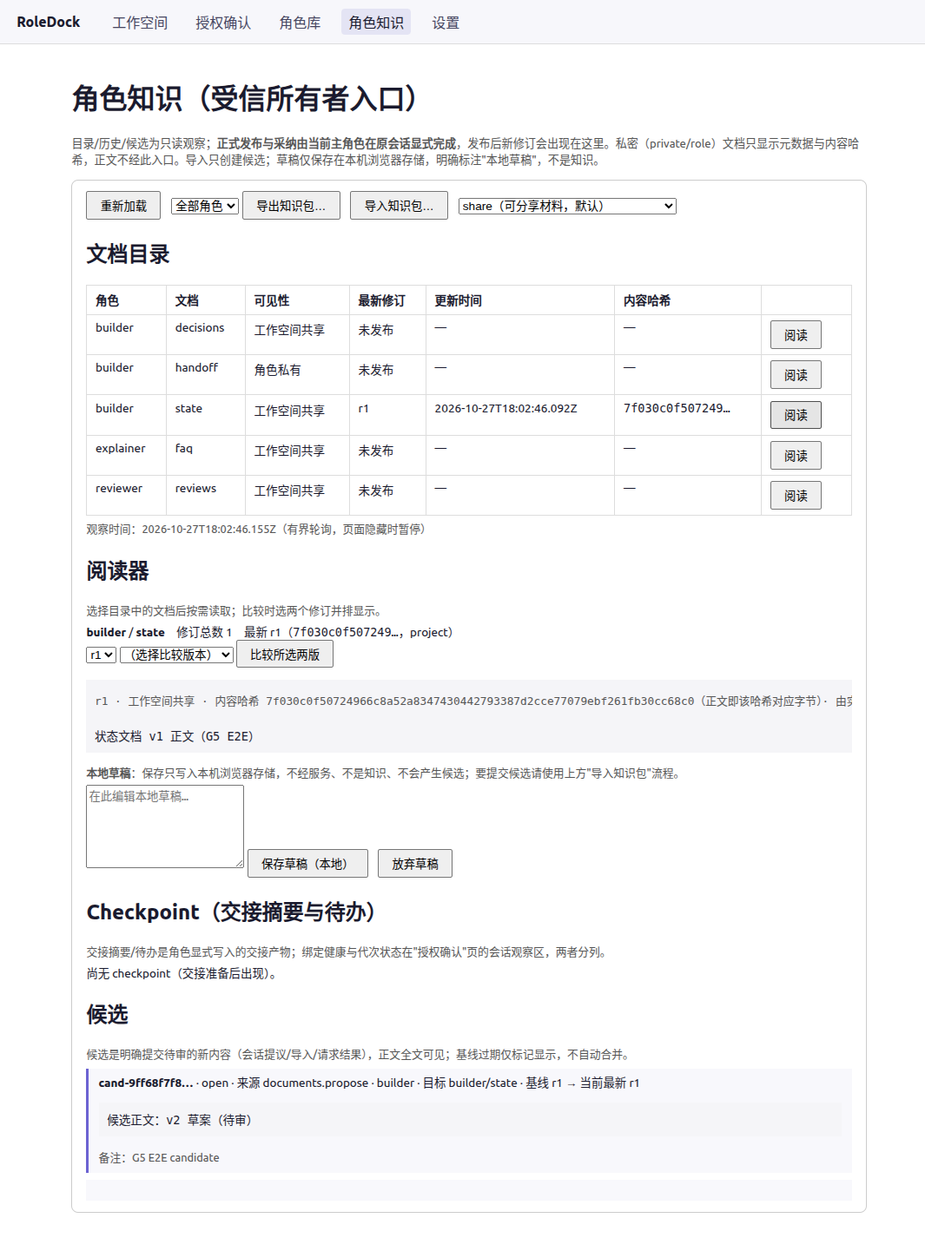
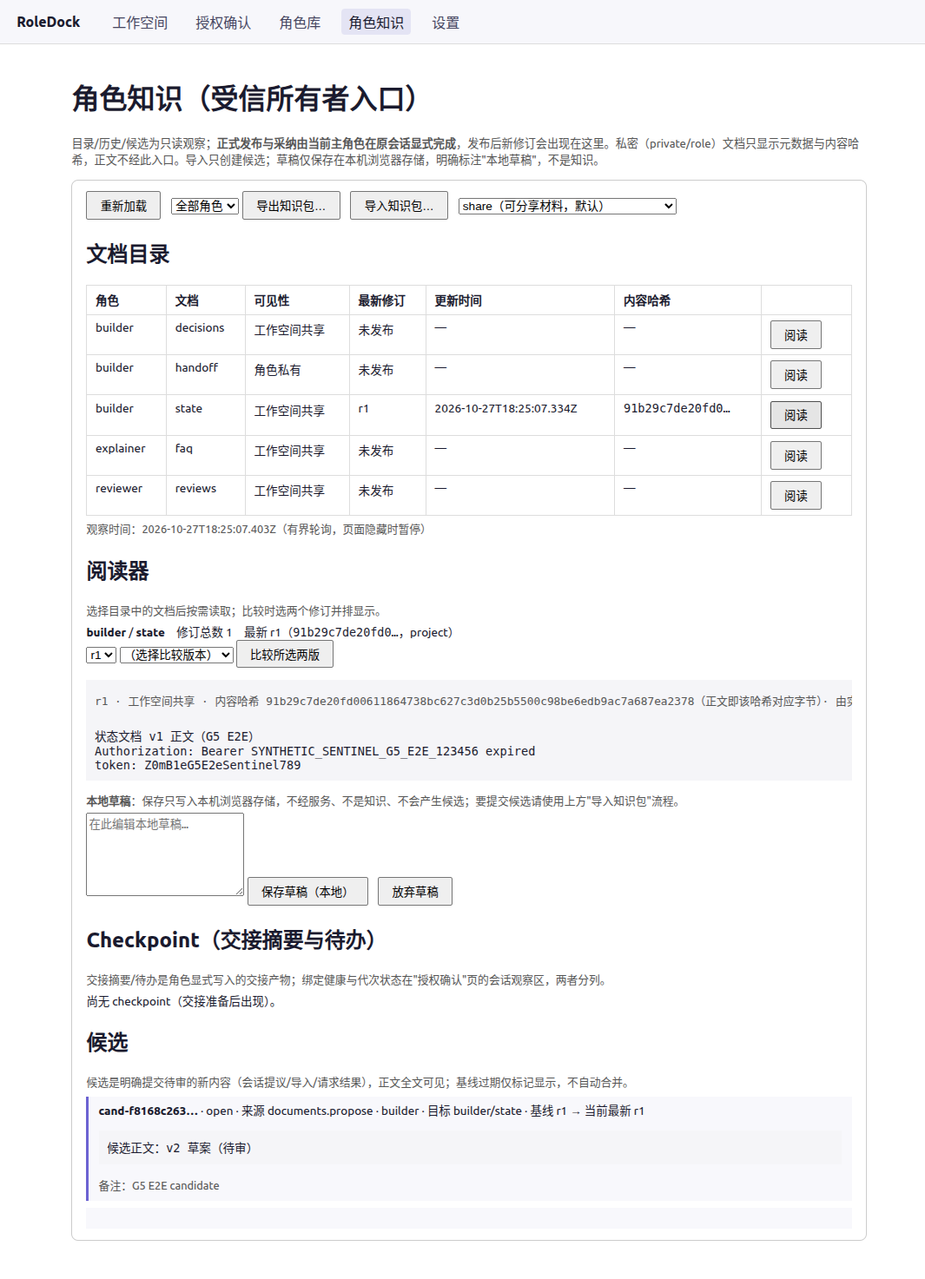
fix(p6-desktop): R1 — hash-paired bodies pass the IPC redact byte-faithful in both bridges; G5 review/rework docs and contract v8 note

diff --git a/packages/desktop/test/e2e-shell/g5.e2e.spec.ts b/packages/desktop/test/e2e-shell/g5.e2e.spec.ts
@@ -1,5 +1,6 @@
 import { expect, test, _electron } from "@playwright/test";
 import type { ElectronApplication, Page } from "@playwright/test";
+import { createHash } from "node:crypto";
 import { existsSync, mkdtempSync, rmSync } from "node:fs";
 import { join, resolve } from "node:path";
 import { tmpdir } from "node:os";
@@ -105,7 +106,10 @@ test.describe("P6-G5 role knowledge page", () => {
         expect(authorizationId).toBeTruthy();
         const anchor = await agent.call("sessions.anchor", { authorization_id: authorizationId, idempotency_key: "g5-shell-e2e" });
         expect(anchor.payload?.binding).toMatchObject({ state: "active", generation: 1 });
-        const published = await agent.call("documents.publish", { document_key: "state", body: "状态文档 v1 正文（G5 E2E）", expected_revision: 0, expected_generation: 1 });
+        // R1 regression: the body carries labeled-secret shapes; it must reach
+        // the renderer byte-faithful (sha256(body) === content_hash) through
+        // the shell IPC redact layer.
+        const published = await agent.call("documents.publish", { document_key: "state", body: "状态文档 v1 正文（G5 E2E）\nAuthorization: Bearer SYNTHETIC_SENTINEL_G5_E2E_123456 expired\ntoken: Z0mB1eG5E2eSentinel789", expected_revision: 0, expected_generation: 1 });
         expect(published.isError).toBe(false);
         expect(published.payload?.revision).toBe(1);
         const proposed = await agent.call("documents.propose", { target_role_id: "builder", document_key: "state", body: "候选正文：v2 草案（待审）", note: "G5 E2E candidate" });
@@ -126,6 +130,11 @@ test.describe("P6-G5 role knowledge page", () => {
       await stateRow.locator("button[data-open]").click();
       await expect(win.locator("#body")).toContainText("状态文档 v1 正文（G5 E2E）", { timeout: 15000 });
       await expect(win.locator("#body")).toContainText("内容哈希");
+      // R1: the IPC reply's body is byte-faithful — its sha256 equals content_hash.
+      const read = await callIpc<{ body: string | null; content_hash: string; body_included: boolean }>(win, "knowledge", "readDocument", { role_id: "builder", document_key: "state" });
+      expect(read.body_included).toBe(true);
+      expect(read.body).toContain("Bearer SYNTHETIC_SENTINEL_G5_E2E_123456 expired");
+      expect(createHash("sha256").update(read.body ?? "").digest("hex")).toBe(read.content_hash);
 
       // 4. Candidates: full proposed body visible; baseline not conflicted yet.
       const candidateBlock = win.locator("#candidates .chain", { hasText: "候选正文：v2 草案（待审）" });

diff --git a/packages/desktop/src/shell/shared/redact.ts b/packages/desktop/src/shell/shared/redact.ts
@@ -16,6 +16,18 @@
 
 const SECRET_FIELD = /(^|_)(token|secret|password|bearer|api[_-]?key|private[_-]?key|access[_-]?key)(s)?$/i;
 const FREE_TEXT_FIELD = /(^|_)(message|body|detail|error|note|reason|description|summary|output|text|log)(s)?$/i;
+/**
+ * Hash-paired payload bytes (G5 owner knowledge DTOs): a "body" string is
+ * content-addressed — paired with content_hash / proposed_body_hash / the
+ * handoff summary hash — so it must arrive VERBATIM. Scrubbing it would
+ * silently rewrite the bytes and break the hash correspondence, violating
+ * desktop-gui-contract §3.1 layer 4 (scrubbed display text must never be
+ * presented as the bytes a content_hash was computed over). Free-text
+ * DISPLAY fields that need scrubbing use other names (message/detail/note/
+ * reason/question/…). R1 (P6-G5 review): keeping this bypass identical in
+ * the probe bridge (G0-R01 parity).
+ */
+const BYTE_FAITHFUL_FIELD = new Set(["body"]);
 const BEARER_SCHEME = /(bearer\s+)([A-Za-z0-9._~+/=-]{12,})/gi;
 const KEY_VALUE_SECRET = /((?:authorization|token|api[_-]?key|secret|password)\s*[:=]\s*)([A-Za-z0-9._~+/=-]{12,})/gi;
 const MASK = "[masked]";
@@ -34,7 +46,7 @@ export function redact<T>(value: T, options: { freeText?: boolean } = {}): T {
     const out: Record<string, unknown> = {};
     for (const [key, item] of Object.entries(value as Record<string, unknown>)) {
       if (SECRET_FIELD.test(key)) continue;
-      out[key] = typeof item === "string" && FREE_TEXT_FIELD.test(key) ? scrubDisplayText(item) : redact(item);
+      out[key] = typeof item === "string" && !BYTE_FAITHFUL_FIELD.has(key) && FREE_TEXT_FIELD.test(key) ? scrubDisplayText(item) : redact(item);
     }
     return out as unknown as T;
   }

diff --git a/packages/desktop/src/probe/shared/bridge.ts b/packages/desktop/src/probe/shared/bridge.ts
@@ -21,7 +21,14 @@
  *    `key: value`) are masked. UNLABELED blobs are not masked and must not
  *    exist as structured DTO fields (layer 1's job); scrubbed text must
  *    never be presented as the bytes a content_hash was computed over.
+ * 4. Byte-faithful exception (R1, P6-G5 review; identical in the shell
+ *    redact): a "body" string is hash-paired payload bytes (content_hash /
+ *    proposed_body_hash / handoff summary hash), so it passes through
+ *    VERBATIM — scrubbing it would break the hash correspondence (§3.1
+ *    layer 4). Free-text display fields use other names.
  */
+
+const BYTE_FAITHFUL_FIELD = new Set(["body"]);
 
 export const PROBE_CHANNEL_PREFIX = "roledock:probe:";
 
@@ -73,7 +80,7 @@ export function redact<T>(value: T, options: { freeText?: boolean } = {}): T {
     const out: Record<string, unknown> = {};
     for (const [key, item] of Object.entries(value as Record<string, unknown>)) {
       if (SECRET_FIELD.test(key)) continue;
-      out[key] = typeof item === "string" && FREE_TEXT_FIELD.test(key) ? scrubDisplayText(item) : redact(item);
+      out[key] = typeof item === "string" && !BYTE_FAITHFUL_FIELD.has(key) && FREE_TEXT_FIELD.test(key) ? scrubDisplayText(item) : redact(item);
     }
     return out as unknown as T;
   }

diff --git a/packages/desktop/test/shell-contract.test.ts b/packages/desktop/test/shell-contract.test.ts
@@ -78,6 +78,19 @@ describe("shell redaction (identical layered rules to the probe)", () => {
     expect(JSON.stringify(dto)).not.toContain("[masked]");
   });
 
+  it("R1 (P6-G5 review): hash-paired bodies pass through byte-faithful even with labeled-secret shapes", () => {
+    const body = `状态 v2\nAuthorization: Bearer SYNTHETIC_SENTINEL_NOT_A_CREDENTIAL expired\ntoken: Z0mB1eR1B0dySentinel123\n普通散文保持不变`;
+    const dto = redact({
+      body,
+      content_hash: SHA256,
+      message: "Authorization: Bearer SYNTHETIC_SENTINEL_NOT_A_CREDENTIAL rejected",
+    });
+    // The body is content-addressed bytes: verbatim, hash still corresponds.
+    expect((dto as { body: string }).body).toBe(body);
+    // Free-text DISPLAY fields keep their layer-3 scrubbing.
+    expect((dto as { message: string }).message).toBe("Authorization: Bearer [masked] rejected");
+  });
+
   it("masks labeled secrets in free-text fields only; unlabeled blobs are untouched", () => {
     const masked = redact({
       message: "Authorization: Bearer SYNTHETIC_SENTINEL_NOT_A_CREDENTIAL rejected",

diff --git a/packages/desktop/test/probe-contract.test.ts b/packages/desktop/test/probe-contract.test.ts
@@ -67,6 +67,13 @@ describe("R01 redaction: secret fields vs public business identifiers", () => {
     expect((masked as { detail: string }).detail).toBe("handoff note: bearer [masked] expired");
   });
 
+  it("R1 (P6-G5 review): hash-paired bodies are byte-faithful in BOTH bridges (G0-R01 parity)", () => {
+    const body = "状态 v2\nAuthorization: Bearer SYNTHETIC_SENTINEL_NOT_A_CREDENTIAL expired\ntoken: Z0mB1eR1B0dySentinel123";
+    const masked = redact({ body, content_hash: SHA256 });
+    expect((masked as { body: string }).body).toBe(body);
+    expect(JSON.stringify(masked)).not.toContain("[masked]");
+  });
+
   it("documented boundary: unlabeled blobs and bare hashes in free text are NOT masked", () => {
     // Contract §3.1 layer 3 (v3): scrubbing covers LABELED secret patterns
     // only. Unlabeled values are the DTO projection layer's responsibility —

diff --git a/docs/phase-reports/P6-G5-review.md b/docs/phase-reports/P6-G5-review.md
@@ -1,0 +1,96 @@
+# P6-G5 独立验收报告：知识、历史、候选与迁移
+
+日期：2026-10-28。结论：**REWORK**（一项返工项 R1，见 §5；其余验收条件全部满足。R1 修复后按 §5.7 复验，不必重验本报告已 PASS 的全部范围）。
+
+依据：AGENTS.md（硬性约束）、prompts/REVIEW.md、prompts/COMMON.md、prompts/06G5-knowledge.md、[P6-G5-development.md](P6-G5-development.md)（开发声明仅作线索，不作结论）、[P6-G5-plan.md](P6-G5-plan.md)（范围裁定留档）、[desktop-gui-contract.md v8 §2.2/§2.3/§3/§4/§5](../spec/desktop-gui-contract.md)、[DESKTOP_GUI_PLAN.md §13](../DESKTOP_GUI_PLAN.md)、前序 [P6-G4-review.md](P6-G4-review.md)（§6.4 "材料待采"跟进义务）。本轮止于验收：未修改产品实现、契约或开发报告，未做任何 commit/合并/发布。
+
+## 1. 验收基线
+
+- HEAD：`5878c38a2273e8c1f831d574b6e964e05718b711`（main；G5 三个 feat 提交 + 契约 v8/开发报告/证据 + 一条 pipeline 日志）。
+- 工作区：验收开始与结束时**均干净**（`git status --porcelain` 零行）；本轮全部测试运行未翻动 `evidence/2026-10-27-p6-g3/real-session/user-data` 下的 Chromium 缓存，无需还原。
+- 运行时：Node v22.23.2（`.nvmrc`，engine-strict）。
+- 本阶段 diff（`d38b42d..HEAD`）：28 个文件、+1908 行，与开发报告 §2 声明的源码范围一致；`knowledge/transfer.ts`（导出/导入核心）为 P2/P5 既有实现，本阶段未改（git log 证实），G5 只是接线。
+
+## 2. 独立运行的验证命令与退出码
+
+| 命令 | 独立结果 | 退出码 |
+| --- | --- | --- |
+| `nvm use` + `node --version` | v22.23.2 | 0 |
+| `npm run check`（typecheck 全量 + build + vitest 全套） | **543/543 PASS（57 文件，266s）**，含 no-business-roles 72 项、G5 core 6 项、G5 service 2 项、shell-contract G5 词汇表 | **0** |
+| `npx playwright test --config packages/desktop/playwright.shell.config.ts`（仓库根） | **14/14 PASS（57.0s）**：G1×6 + G2×5 + G3×1 + G4×1 + **G5×1 全链**，无跳过 | **0** |
+| 验收方独立探测脚本 `/tmp/g5-review/independent-check.mjs`（reviewer 临时材料，直接驱动 dist 的 WorkspaceAdmin/transfer，**33 项断言**） | 33/33 PASS | 0 |
+| 验收方 redact 探针 `/tmp/g5-review/redact-probe.mjs`（shell 构建产物 `redact()` 实测） | 实证 R1（§5） | 0 |
+| `git status`（验收结束） | 干净 | 0 |
+
+抽查证据目录 `docs/phase-reports/evidence/2026-10-28-p6-g5/automated/`：`gui-01-knowledge-page.png`（知识页全貌：目录含未发布声明文档、阅读器正文+哈希标注、本地草稿区、checkpoint 区、候选全文与来源/基线标注——与代码渲染路径逐项相符）、`shell-e2e-g5.log`（14/14 采集运行）。开发报告 §4 的失败/返工记录（core 测试 manifest 字段名、service 隔离断言语义、E2E 钩子、typecheck 修正）如实披露，未发现隐瞒。
+
+## 3. 逐条验收条件核对（06G5 工作项 → 实际代码/行为/测试）
+
+| 提示词工作项 | 核对结果 | 关键位置/证据 |
+| --- | --- | --- |
+| 1. 按已定可见性提供 owner 文档/修订/候选读模型；正文经服务按需读取，渲染层不读对象路径或开库 | **PASS**。六个只读投影（`documents.list`/`documents.read`(owner)/`documents.listRevisions`/`documents.listCandidates`/`checkpoints.list`/`checkpoints.get`）实现于 WorkspaceAdmin，全部纯 SELECT；验收方独立脚本对发布/提议/checkpoint 后的工作空间连续调用 9 次投影，**23 张表 digest 逐字节不变**。渲染层 `grep node:fs|node:path|require(|process.` 零命中；正文只能经 `knowledge:readDocument` 服务调用按需到达 | `packages/core/src/admin.ts:228-434`、`packages/service/src/index.ts:183-218`（六操作传输边界 Schema 校验输出，fail-closed INTERNAL）、`packages/desktop/src/shell/renderer/pages/knowledge.ts`（无 fs/path）、独立探测脚本第 1 组 |
+| 2. 文档目录、历史比较、来源/可见性、checkpoint 摘要/待办、候选基线与冲突、导出/导入原生选择和结果清单 | **PASS**（正文保真受 R1 影响，见 §5）。目录含未发布声明文档（latest_revision=0+包声明可见性）；两修订并排比较+哈希标注；私密修订在下拉中标注"（私密）"；checkpoint 摘要（format+content_hash+待办概览）→详情（交接摘要全文、全部待办、来源、决策引用）；候选显示来源/原始基线→当前最新/冲突标记/正文全文/备注；导出经 main 原生对话框复制到用户所选目录、导入原生对话框选包后显示"已创建 N 个候选"清单。E2E 全链实证（目录 r1→正文→候选→导出落盘 manifest.json→导入建候选） | `knowledge.ts:114-228`、`workspace-controller.ts:242-280`、`g5.e2e.spec.ts:119-154`、截图 gui-01 |
+| 3. 编辑保留本地草稿；owner 候选提议的裁定；导入只创建候选 | **PASS**。草稿仅 `window.localStorage`（键 `roledock-draft:<role>:<doc>`），界面明示"保存只写入本机浏览器存储，不经服务、不是知识、不会产生候选"；`proposals.submit` 未实施裁定**合法**（§6 评估）；导入只建候选（`importKnowledge` 事务内仅 INSERT candidate_updates，`document_revisions` 计数为 0——core 测试+独立脚本+E2E 三重实证）；页面无空功能按钮（词汇表测试锁定 knowledge 命名空间恰为 8 方法，无 submit/publish/adopt：`shell-contract.test.ts:42-49`） | `knowledge.ts:17-29,132`、`transfer.ts:186-末尾`、`g5.e2e.spec.ts:144-154` |
+| 4. 验证撤权、历史不可变、过期基线冲突不丢正文、私密范围、哈希来源和目录边界；不自动合并/不迁移凭据 | **PASS**（哈希来源的 core 层成立、GUI 呈现层被 R1 破坏）。① 历史不可变：修订列表纯元数据（`JSON.stringify(page)` 不含正文串，core 测试），同 revision 不可重写由既有 CAS 承载；② 过期基线：r1 提议→发布 r2→候选 body 原样保留、`baseline_conflicted=true`（**存储 state 仍 open**，独立脚本直读库证实显示层派生）；③ 撤权：owner 读模型不依赖会话授权（读不产生权），会话面经既有 `canRead` 身份可见性门控（`documents/service.ts:79-110`），GUI 知识页无任何写通道可"继续操作"；④ 私密范围：private/role 仅元数据+哈希，正文串不出现在任何响应（core 测试+独立脚本对 read/revisions/list 逐一断言）；⑤ 哈希来源：core 读出即验 `bodyHash(body)===content_hash`，验收方以**篡改内容寻址对象文件**实证 fail-closed（抛 INTERNAL 且消息不含原文）——此项为产品测试未直接覆盖、验收方补测；⑥ 目录边界：role 过滤、未安装角色空目录不抛、未发布 read 报 NOT_FOUND；⑦ 导出 scope=share 仅 project/public 已发布条目（manifest 不含 role 文档与正文、不含 checkpoint），导入侧 private/role 条目按 `visibility_not_shareable` 跳过、篡改包被哈希校验拒绝（不碰 DB）；无凭据/宿主聊天通道 | `admin.ts:301-334,352-377,391-434`、`transfer.ts:54-63,100-115,186+`、独立探测脚本第 2-7 组 |
+
+**退出条件**（06G5）："GUI 可查看/比较/迁移知识，并在外部角色显式发布后显示确切新修订；草稿、候选与发布清楚区分。不做向量检索、富文本协同或静默角色升级"——达成。E2E 步骤 2-3 实证发布链：原会话 Agent `sessions.anchor`（active，generation 1）→ `documents.publish` r1 → GUI 知识页经 2s 有界轮询出现 r1 正文与哈希（`g5.e2e.spec.ts:100-128`）；草稿（本地存储+明示标注）/候选（待审、显示基线）/发布（仅原会话，GUI 仅观察与指引）三者在页面文案、数据来源与词汇表三层分离；未做向量检索/富文本/静默升级。
+
+## 4. 重点独立核查结果（验收方亲测，非仅测试绿）
+
+1. **投影纯只读**：见 §3 工作项 1——23 张表 digest 前后逐字节相同（9 次调用覆盖全部六投影+分页翻页）。
+2. **分页边界真实生效**：`limit` 0/201/-5/1.5/"10"（字符串）全部 `VALIDATION_FAILED`；limit=1 经 cursor 走完整目录与 limit=200 单页集合相等；非法 cursor（非 base64）拒绝。core 与 service 边界双层校验一致。
+3. **§3.2 可见性矩阵**：project/public 才 `body_included:true`；private/role 的正文串不出现在 read/revisions/list 任何响应的序列化输出（含目录的 `body` 字段整体不存在的断言）；**候选正文全文附带且基线正文不搭载**（候选列表仅含 proposed body，无 baseline body 字段）；checkpoint 摘要仅 format+content_hash（列表序列化不含摘要正文）、详情有全文+读出验哈希。
+4. **同名 documents 操作双 dispatch 隔离**：session principal 在 `service/index.ts:99` 直接转 `connection.call`（会话自有 `documents.list/read`，经 MCP binding 可见性），**不进入** owner 分支；owner 六操作走 `#admin` 投影，互不借用身份。service 测试断言：trusted 主体六操作全 `PERMISSION_DENIED`；会话面 owner-only 四视图（listRevisions/listCandidates/checkpoints.*）全拒、会话自有 documents.list/read 保留。
+5. **渲染层边界**：`knowledge:` 是封闭命名空间（8 方法）；export/import 的文件解析在受信 main 进程（原生对话框或文档化测试夹具 env），`knowledge:export` 无通用路径入参（仅 scope/role_id）、`knowledge:import` noPayload；渲染层只拿摘要/`saved_to` 标签与候选清单；8 条 handler 均 assertTrusted+redact+输入校验。E2E 断言渲染层无 `process`/`require`（G1 既有，清单更新后仍通过）。
+6. **导出导入迁移语义**：share 包仅 project/public 已发布 latest（JOIN documents.latest_revision），写包时哈希重算复核；导入先验全部条目哈希（篡改不碰 DB）、private/role 与未安装角色/未声明文档键逐项跳过、目标工作空间 `document_revisions` 计数 0、目录全部 latest_revision=0、候选 source=knowledge.import 且正文全文——"两个工作空间迁移后是候选而非静默发布"实证。
+7. **GUI 发布后新修订自然出现**：E2E 步骤 2-3（锚定→发布→2s 轮询出现 r1），轮询有界（hidden 暂停、hashchange 清理监听）。
+
+## 5. 返工项
+
+### R1（高）：知识正文经 shell IPC `redact()` 被静默改写，破坏"正文即 content_hash 对应字节"的保真声明
+
+- **触发条件**：已发布文档正文（public/project 的 `body`）、候选正文（`body`）、交接摘要正文（`handoff_summary.body`）、待办描述（`todos[].description`）或候选备注（`note`）中含**标注型秘密形态**字符串——如 `Bearer <≥12字符>`、`token: <值>`、`password: <值>`、`api_key: <值>`。此类内容在工作文档（事故记录、密钥轮换记录、配置示例）中并不罕见。
+- **位置**：
+  - `packages/desktop/src/shell/main/ipc.ts:262`——所有 shell handler 回复统一 `redact(...)`；
+  - `packages/desktop/src/shell/shared/redact.ts`——`FREE_TEXT_FIELD` 正则含 `body`，对象分支对具名字符串强制 `scrubDisplayText()`；
+  - `packages/desktop/src/shell/renderer/pages/knowledge.ts:141`（阅读器标注"内容哈希 `<hash>`（正文即该哈希对应字节）"）、`:200`（checkpoint 详情同标注）、`:161`（比较的"正文相同/不同"判定基于 scrub 后文本）。
+- **影响**：违反 desktop-gui-contract §3.1 第 4 层定档（"经脱敏/截断的显示文本**不得**标注为与某 `content_hash` 对应的字节"）与 §2.3 `documents.read`"content_hash（**原始字节**）"、§3.2"全文"语义。service 传输边界的 Schema 校验发生在 service 进程（校验原文、通过），scrub 发生在其后的 desktop IPC 层——**静默失真、无任何告警**：owner 在 GUI 复核哈希将失败且无从知道原因；两版比较可能因正文仅差秘密片段而误报"正文相同"。哈希来源是 06G5 工作项 4 的明确验证项，其 core 层实现正确（§3/§4），但在 GUI 呈现链上被破坏。注：候选 `note`、`todos[].description` 自身无哈希配对，其 scrub 属契约 §3.1 第 3 层"尽力而为"允许范围，**不属缺陷**；`probe` 桥 `PROBE_METHODS` 不含 knowledge 操作，修复面仅 shell 桥。
+- **实证**（验收方 redact 探针，驱动 shell 构建产物 `dist/shell/shared/redact.js`，与 ipc.ts:262 同函数同默认参数）：
+  - 输入正文 `Incident log: the connector emitted \`Bearer sk-live-abcdef1234567890\` at 10:02.` → 输出 `...Bearer [masked]...`（字节改变，与 content_hash 不再对应）；
+  - `handoff_summary.body` "Handoff mentions token: abcdef1234567890ab" → "token: [masked]"；`todos[].description` "rotate the api_key: zzz…" → "[masked]"。
+- **修复要求**：为 knowledge 读响应中**与 content_hash 配对的正文**（`body`、`handoff_summary.body`）提供逐字节保真通道——例如利用 redact 现有 `options.freeText` 机制对相应 handler 关闭自由文本 scrub，或将正文置于非 FREE_TEXT 键名的结构中；修复须保持契约 §3.1 第 1 层投影（DTO 字段白名单）与第 2 层 SECRET_FIELD 名单不变（秘密**字段**仍不得出现），并同步核查 §3.1 第 3 层"两桥一致"注释的适用性；GUI 的"正文即该哈希对应字节"标注在保真通道建立后方可保留。
+- **复验方法**：发布正文含 `Bearer abcdef1234567890` 的 project 文档，经 shell IPC `knowledge:readDocument` 读回，断言 `body` 与 `content_hash` 逐字节对应（`sha256(body)===content_hash`），并补一条同形态的回归测试进 shell 契约测试或 g5 E2E；随后重跑 `npm run check` 与 shell E2E。
+
+## 6. `proposals.submit` 未实施裁定评估（prompt 工作项 3 / 计划 §13）
+
+**裁定合法**，理由链：
+
+1. 06G5 工作项 3 为条件句："**如增加** owner 候选提议，先明确独立来源和审计"——owner 提议非本阶段强制项。
+2. 计划 §13 明文预留本轮不实施的出口："若本轮不实施 owner 候选提交，首版明确显示'本地草稿'，仍可通过现有导入流程提交候选，**不能出现空功能按钮**"——三个条件全部满足：草稿区明示（§3 工作项 3）、提交候选可走既有导入流程（E2E 步骤 6）、无空按钮（词汇表测试 `shell-contract.test.ts:42-49` 锁定 knowledge 命名空间恰为 8 方法且显式断言无 submit/publish/adopt）。
+3. 契约 §2.3 将 `proposals.submit` 标为 G5/G6，v8 注明"本轮未实施……实施前需先明确独立来源与审计"——未占用名字、未伪装。
+4. 计划留档的裁定理由**属实**（验收方独立核实）：`candidate_updates.source` 的 CHECK 约束仅 `'documents.propose','knowledge.import','request.result'` 三来源（`migrations.ts:274`），owner 提案需扩 CHECK（新迁移）+ `proposed_by` 身份语义（现 NOT NULL session/role）+ 独立审计——属架构/权限面变化，按仓库纪律须先补 ADR，不属"只读落点"范畴。
+5. 退出条件不含 owner 提议；硬性约束 4（未实现不伪装）得到遵守。
+
+## 7. G4 遗留"材料待采"承接核对
+
+`evidence/2026-10-27-p6-g4/` 下 **FINDINGS.md 与 gui-03…gui-07 仍未补采**（目录内容与 G4 验收时一致：automated/ 两截图+日志、STEPS.md、两个采集脚本）；本阶段自身真机截图（知识页真机形态）同样待采，开发报告 §6/§8 如实声明"沿用两份 STEPS，待用户配合采集"。按 G4 验收 §6.4 的既定裁定升级为本阶段**观察项 O-A**：自动化证据覆盖同版本代码的相同代码路径，非功能缺口，不构成 REWORK/BLOCKED；**随 G7 产品证据收口（GUI-04…07 矩阵）最迟补齐**，届时若仍缺失应作为 G7 验收的实质问题处理。
+
+## 8. 观察项（不影响本阶段结论）
+
+- **O-A（证据冗余）**：G4/G5 真机补充证据待采——见 §7。
+- **O-B（低，边界澄清）**：`redact()` 对候选 `note`、`todos[].description`、比较日志等非哈希配对自由文本的 scrub 是契约第 3 层定档行为；但修复 R1 时建议在契约 §4 的 knowledge 行补一句"哈希配对正文逐字节保真、不适用自由文本 scrub"，把 R1 的修复固化进契约，避免后续阶段再次踩线。
+- **O-C（低，显示细节）**：分页 UI 未做翻页控件（目录 limit=200、候选 100、checkpoint 50 单页渲染），与 G4 O-C 同性质；core/service 分页契约已实现并验证，条目规模为文档/checkpoint 数量级。
+- **O-D（记录）**：比较为并排显示+哈希对照，非逐字 diff——计划 §13 允许"轻量"，开发报告 §8 如实披露；R1 修复前"正文相同"判定基于 scrub 后文本（并入 R1 复验）。
+
+## 9. 测试真实性总评
+
+各层测试均有行为断言而非逐字复述实现：core 断言序列化输出不含正文串、存储计数（`document_revisions` n=0）、边界拒绝与翻页；service 断言传输边界输入拒绝与三面互拒；E2E 用真实 Electron+真实服务+真实 MCP stdio 客户端完成锚定→发布→观察→导出→导入全链，零模型轮 mock 宿主如实标注。开发报告声明的数字（543/543、14/14、6/6、2/2）与验收方独立运行一致。验收方另补三类产品测试未覆盖的检查：投影只读的存储级前后对比、内容寻址对象篡改的 fail-closed、IPC redact 对正文的改写（后者即 R1 发现手段）。
+
+## 10. 范围限制
+
+- 未独立重跑真机步骤（需真实 ZCode 桌面会话与用户配合）——按 §7 裁定待采。
+- 未重跑 `npm run desktop:e2e`（probe 回归）；shell IPC 边界随 14 项 shell E2E 覆盖。
+- 未复跑开发侧证据采集运行（`automated/shell-e2e-g5.log` 为开发侧采集）；以验收方自身 14/14 运行与截图内容核对替代。
+- 验收方临时材料位于 `/tmp/g5-review/`（independent-check.mjs、redact-probe.mjs、debug-readonly.mjs），不入库、不影响工作区（验收结束工作区干净）。
+
+**P6-G5 结论：REWORK**——完成 R1（知识正文 IPC 保真）修复与复验后，本阶段其余范围即成立，可进入 G6；R1 不要求重验本报告已 PASS 的 core/service 投影语义与导出导入迁移语义。本轮不自动开始修复、不提交、不发布；本报告不授予合并或发布权限。

diff --git a/docs/spec/desktop-gui-contract.md b/docs/spec/desktop-gui-contract.md
@@ -1,6 +1,6 @@
 # RoleDock 桌面 GUI 操作契约（P6-G0 定档）
 
-日期：2026-10-25；**v2 返工修订 2026-10-26**（按 `P6-G0-review.md` R01–R03：脱敏分层定档、管理取消对齐真实状态机、页面动作→操作映射补全）；**v3 复验返工修订 2026-10-26**（按 `P6-G0-rework-review.md`：R01 结构化公开哈希/标识逐字节保真、自由文本仅具名字段掩盖；R03 checkpoint 摘要/待办对齐协议 Checkpoint 类型；G1 交付 `workspace.info` 扩展见 §2.3）；**v4 G2 实现标注 2026-10-26**（`roles.get`/`policy.list`/`workspace.runtimeStatus` 已实现并注册 Schema；`workspace.preflight`/`testConnection` 桌面预检切分；shell 清单见 §4）；**v5 G2 返工修订 2026-10-26**（目录↔workspace_id 身份文件绑定校验、每工作空间 launcher 持久化恢复、连接器按 dev/packaged 真实文件路径解析并以 `node --check` 预检、launcher 配置防链接写入、角色详情返回安装快照正文）；**v6 G2 复验返工修订 2026-10-26**（workspace-id 跨停机持久，活端点附着必须证明身份——缺失/损坏即 conflict；持久化 launcher 配置分 absent/present/error，损坏显式失败不退 mock；角色材料按包契约一律按路径从安装快照解析，缺失/损坏显式失败，不用扩展名猜内联文本）；**v7 G4 实现标注 2026-10-28**（`authorizations.revokePreview`、`sessions.listBindings/listAttempts/listLoads` 已实现并注册 Schema（`session-bindings`/`anchor-attempts`/`anchor-loads`/`revoke-preview`）；绑定视图新增 `effective_state`（显示层有效性，投影只读不写库）与 `state_changed_at`（迁移 8，旧记录如实为 NULL 不回填）；shell 清单新增 `sessions:`/`authorizations:` 命名空间并补记 G3 `bridgeStatus`，见 §4）；**v8 G5 实现标注 2026-10-28**（`documents.list`、`documents.read`（owner 版）、`documents.listRevisions`、`documents.listCandidates`、`checkpoints.list`、`checkpoints.get` 已实现并注册 Schema（`owner-documents`/`owner-document`/`owner-document-revisions`/`owner-candidates`/`owner-checkpoints`/`owner-checkpoint-detail`）；owner 面与会话面同名 documents 操作是**不同 dispatch 路径**，互不借用身份；`proposals.submit` 维持 G5/G6 未实施——编辑器仅本地草稿、提交候选走既有导入流程；shell 清单新增 `knowledge:` 命名空间，见 §4）。
+日期：2026-10-25；**v2 返工修订 2026-10-26**（按 `P6-G0-review.md` R01–R03：脱敏分层定档、管理取消对齐真实状态机、页面动作→操作映射补全）；**v3 复验返工修订 2026-10-26**（按 `P6-G0-rework-review.md`：R01 结构化公开哈希/标识逐字节保真、自由文本仅具名字段掩盖；R03 checkpoint 摘要/待办对齐协议 Checkpoint 类型；G1 交付 `workspace.info` 扩展见 §2.3）；**v4 G2 实现标注 2026-10-26**（`roles.get`/`policy.list`/`workspace.runtimeStatus` 已实现并注册 Schema；`workspace.preflight`/`testConnection` 桌面预检切分；shell 清单见 §4）；**v5 G2 返工修订 2026-10-26**（目录↔workspace_id 身份文件绑定校验、每工作空间 launcher 持久化恢复、连接器按 dev/packaged 真实文件路径解析并以 `node --check` 预检、launcher 配置防链接写入、角色详情返回安装快照正文）；**v6 G2 复验返工修订 2026-10-26**（workspace-id 跨停机持久，活端点附着必须证明身份——缺失/损坏即 conflict；持久化 launcher 配置分 absent/present/error，损坏显式失败不退 mock；角色材料按包契约一律按路径从安装快照解析，缺失/损坏显式失败，不用扩展名猜内联文本）；**v7 G4 实现标注 2026-10-28**（`authorizations.revokePreview`、`sessions.listBindings/listAttempts/listLoads` 已实现并注册 Schema（`session-bindings`/`anchor-attempts`/`anchor-loads`/`revoke-preview`）；绑定视图新增 `effective_state`（显示层有效性，投影只读不写库）与 `state_changed_at`（迁移 8，旧记录如实为 NULL 不回填）；shell 清单新增 `sessions:`/`authorizations:` 命名空间并补记 G3 `bridgeStatus`，见 §4）；**v8 G5 实现标注 2026-10-28**（`documents.list`、`documents.read`（owner 版）、`documents.listRevisions`、`documents.listCandidates`、`checkpoints.list`、`checkpoints.get` 已实现并注册 Schema（`owner-documents`/`owner-document`/`owner-document-revisions`/`owner-candidates`/`owner-checkpoints`/`owner-checkpoint-detail`）；owner 面与会话面同名 documents 操作是**不同 dispatch 路径**，互不借用身份；`proposals.submit` 维持 G5/G6 未实施——编辑器仅本地草稿、提交候选走既有导入流程；shell 清单新增 `knowledge:` 命名空间，见 §4；复审 R1 返工——`redact` 对哈希配对正文（body 键）逐字节保真，shell 与 probe 双桥一致）。
 状态：**G0 契约定档（开发方候选）；标注"已实现"的行已交付**。本文定义接口名、输入/输出要点、可见性与幂等规则；每个操作在其目标子阶段实现时**先补 protocol Schema 与 TS 类型，再接 UI**（DESKTOP_GUI_PLAN §5.1）。未实现行的名字不占用稳定协议名。基线 HEAD `d9743365` + 未提交工作区。
 
 关联：[桌面 GUI 分阶段计划](../DESKTOP_GUI_PLAN.md)、[ADR-0013](../adr/0013-desktop-orchestration-and-owner-views.md)、[toolchain](../toolchain.md)。
@@ -123,7 +123,7 @@
 - preload 经 `contextBridge` 只暴露**具名方法**；清单封闭于代码常量（G0 探针样例：`PROBE_METHODS`）。每个页面的方法先入清单并补 TS 类型，再写 UI。
 - **禁止**通用 `rpc(operation, input)` 通道；渲染层不得接收凭据字段（§3.1 第 1 层投影为权威，`redact()` 为传输层兜底）。
 - main 进程是唯一凭据持有者：沿用 G-min 的 owner-connection 文件校验（属主 + 0600 + 常规文件）。
[2 lines of base64/hex data omitted]
 - **G-min loopback http 入口（诊断）**：`roledock-desktop-gmin` bin 保留为显式诊断入口——只代理 `externalSessions.list / roles.list / authorizations.submitHumanEvent` 三个操作，**不是通用 owner RPC 代理**；与 shell 生产确认页共享 `src/gmin/confirm.ts` 决策模块（entry/event_ref 一律在受信进程解析）。
 - G0/G1 已实测的强制手段：单测断言清单封闭且无 rpc/call/invoke、合成授权 DTO 保留 `authorization_id` 而拒绝秘密字段、文本掩盖保留标签、发送方校验拒绝外来 frame；E2E 断言渲染层无 `process`/`require`、页面无 64-hex token、无参方法拒收 payload。
 

diff --git a/docs/phase-reports/P6-G5-rework.md b/docs/phase-reports/P6-G5-rework.md
@@ -1,0 +1,27 @@
+# P6-G5 返工记录(R1)
+
+日期:2026-10-28。对应验收:`P6-G5-review.md`(结论 REWORK,唯一返工项 R1,高优先级)。返工基线:HEAD `5878c38` 起。
+
+## R1:哈希配对正文经 shell IPC redact 被静默 scrub
+
+- **验收指认**:知识正文(body)含 `Bearer <值>`/`token:`/`password:` 形态时,IPC `redact()` 的自由文本掩盖(FREE_TEXT_FIELD 含 `body` 键)将其改写为 `[masked]`,而 GUI 标注"正文即该哈希对应字节"——违反契约 §3.1 第 4 层与 §2.3"原始字节"定档;比较判定也可能误报。
+- **修复**(两桥一致,G0-R01 同律):
+  - `packages/desktop/src/shell/shared/redact.ts` 与 `packages/desktop/src/probe/shared/bridge.ts`:新增 `BYTE_FAITHFUL_FIELD = new Set(["body"])`——`body` 键的字符串值跳过显示掩盖、逐字节透传。理由写入两处注释:body 是内容寻址载荷字节(配对 content_hash/proposed_body_hash/handoff 摘要哈希),掩盖即破坏哈希对应;需要掩盖的自由文本显示字段用其他键名(message/detail/note/reason/question/…)。
+  - 契约 v8 §4 补记"哈希配对正文逐字节保真"(验收观察 O-B)。
+- **回归测试**:
+  - `shell-contract.test.ts` / `probe-contract.test.ts`:含 `Bearer …`/`token:` 形态的 body 断言逐字节相等且无 `[masked]`;message 字段仍被掩盖(第 3 层不回退)。
+  - `g5.e2e.spec.ts`:MCP 发布含 `Bearer …`/`token:` 形态的文档 → 经真实 shell IPC `knowledge:readDocument` 断言 `sha256(body) === content_hash` 且 Bearer 原文可达(渲染层收到的就是发布字节)。
+- **复验运行**(全部退出码 0):
+  - `npm run check`:**545/545 PASS(57 文件)**(较返工前 +2,即两个新 redact 用例)。
+  - shell E2E 全量:**14/14 PASS**。第一轮出现一例 `g2.e2e.spec.ts:281`(launcher 配置损坏显式失败)失败,与本次改动面无关;单独重跑 5/5 PASS、随后全量复跑 14/14 PASS——判定为一次性抖动,记录于此备查。
+  - probe 回归与双桥一致性:同套测试覆盖。
+
+## 遗留跟进(验收观察项,不阻塞)
+
+- **O-A**:G4 遗留真机证据(gui-03…07 + FINDINGS.md)仍未采——按 G4 验收裁定随 G7 产品证据收口最迟补齐;G5 知识页真机截图同批。
+- **O-C**:候选/修订分页无翻页控件(条目规模有限,单页渲染)。
+- **O-D**:比较为并排显示+哈希对照,非逐字 diff(计划 §13 允许轻量)。
+
+## 结论
+
+R1 已修复并按验收指定的复验方法(含 Bearer 形态正文经 readDocument 的 sha256 断言、check 与 shell E2E 全绿)复验通过。进入下一子阶段(G6,先计划留档)。

diff --git a/docs/phase-reports/P6-G5-development.md b/docs/phase-reports/P6-G5-development.md
@@ -76,6 +76,10 @@
 3. checkpoint 列表在长历史工作空间按 created_at 倒序分页(offset 游标),与 policy.list 先例一致;超大历史(>200)需翻页,GUI 当前单页 limit=50/100,条目规模为 checkpoint 数量级。
 4. 比较为并排显示+哈希对照,非逐字 diff(计划允许"轻量";未做富文本)。
 
+## 8a. 复审返工 R1(2026-10-28 补记)
+
+首次独立验收结论 REWORK(`P6-G5-review.md`,唯一返工项 R1):IPC redact 的自由文本掩盖误伤哈希配对正文。修复与复验见 `P6-G5-rework.md`(redact 双桥加 `body` 逐字节保真例外 + 契约 v8 §4 补记 + 回归测试;`npm run check` 545/545、shell E2E 14/14 全绿)。验收观察 O-A(真机证据随 G7 收口)、O-C(分页翻页控件)、O-D(并排比较非逐字 diff)不阻塞。
+
 ## 9. 停止点
 
 本阶段完成即停止:不进入 G6、不推送远程。按既有批次风格提交本阶段变更(不推送),交独立验收 Agent 按 `prompts/REVIEW.md` 形成 `P6-G5-review.md`。

diff --git a/docs/phase-reports/P6-pipeline-log.md b/docs/phase-reports/P6-pipeline-log.md
@@ -1,3 +1,5 @@
 2026-10-28 01:31 流水线定时任务创建(每30分钟,至09:00,automation-11929d59)。
 2026-10-28 01:45 G4 独立验收 PASS(P6-G4-review.md;真机证据裁定"材料待采"随G5跟进);提交 d38b42d。
 2026-10-28 02:10 G5 实施完成(按 P6-G5-plan.md):543/543 + shell E2E 14/14 全绿;契约 v8;P6-G5-development.md 待独立验收;提交 e2cdd8d..4686dba。下一步:G5 独立验收 → G6 计划留档。
+2026-10-28 02:30 G5 独立验收 REWORK(R1:redact 误伤哈希配对正文;其余 33/33 独立探测全过、proposals.submit 裁定合法)。
+2026-10-28 02:40 R1 修复:shell/probe 双桥 body 逐字节保真例外+契约 v8 §4 补记+回归测试;npm run check 545/545、shell E2E 14/14(P6-G5-rework.md)。G5 收口,进入 G6。
